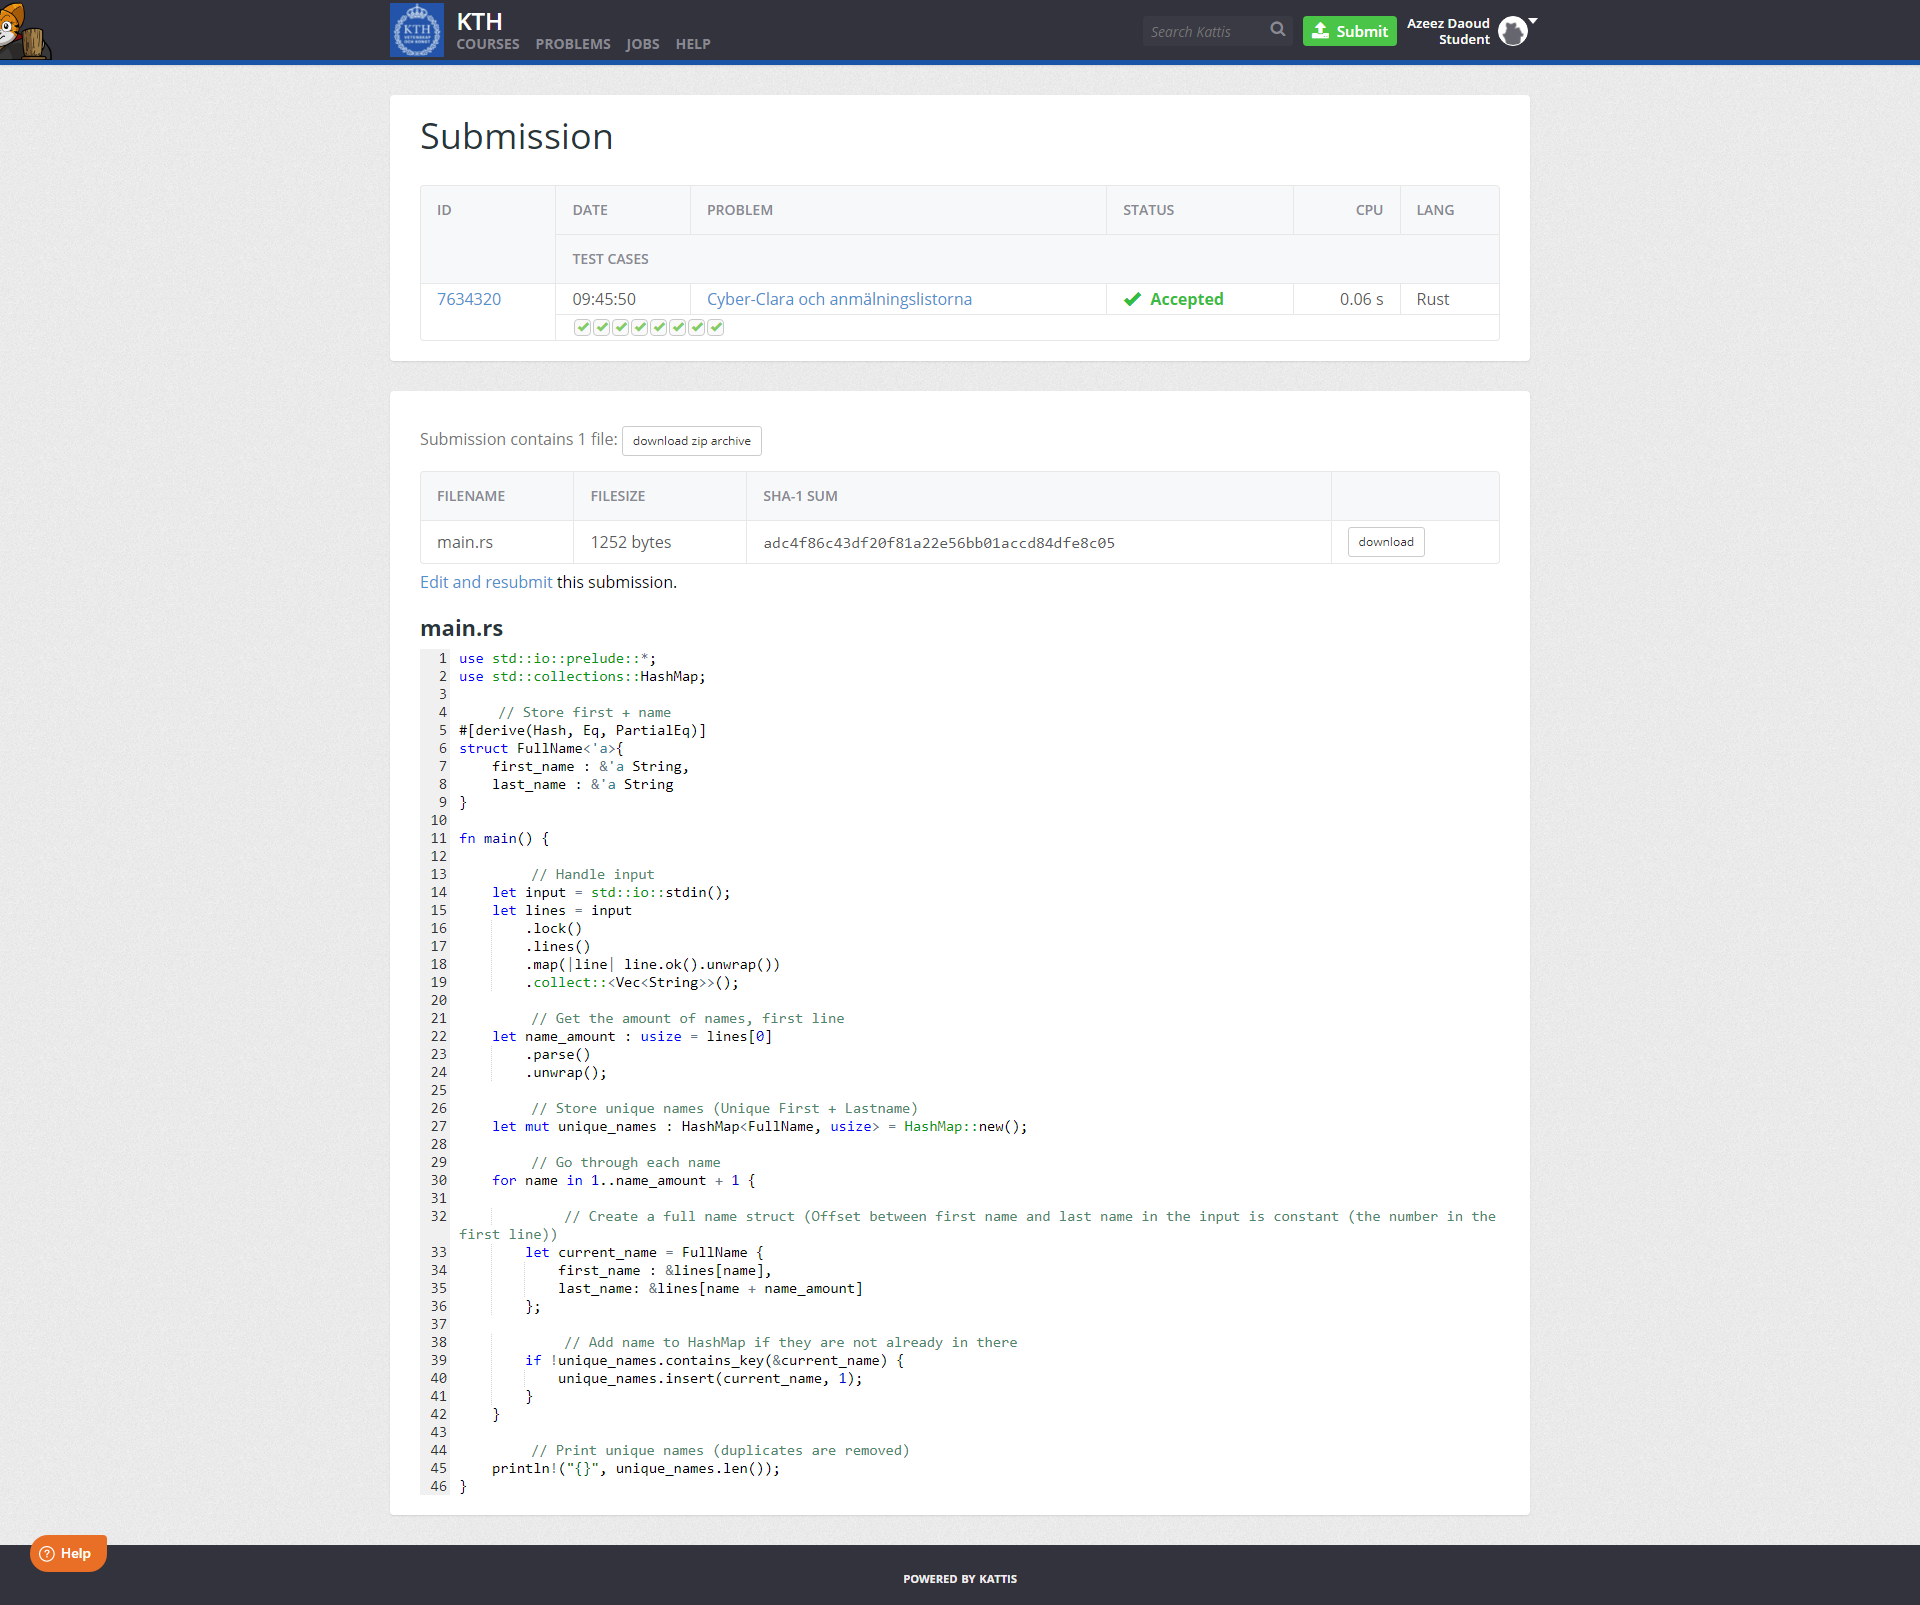
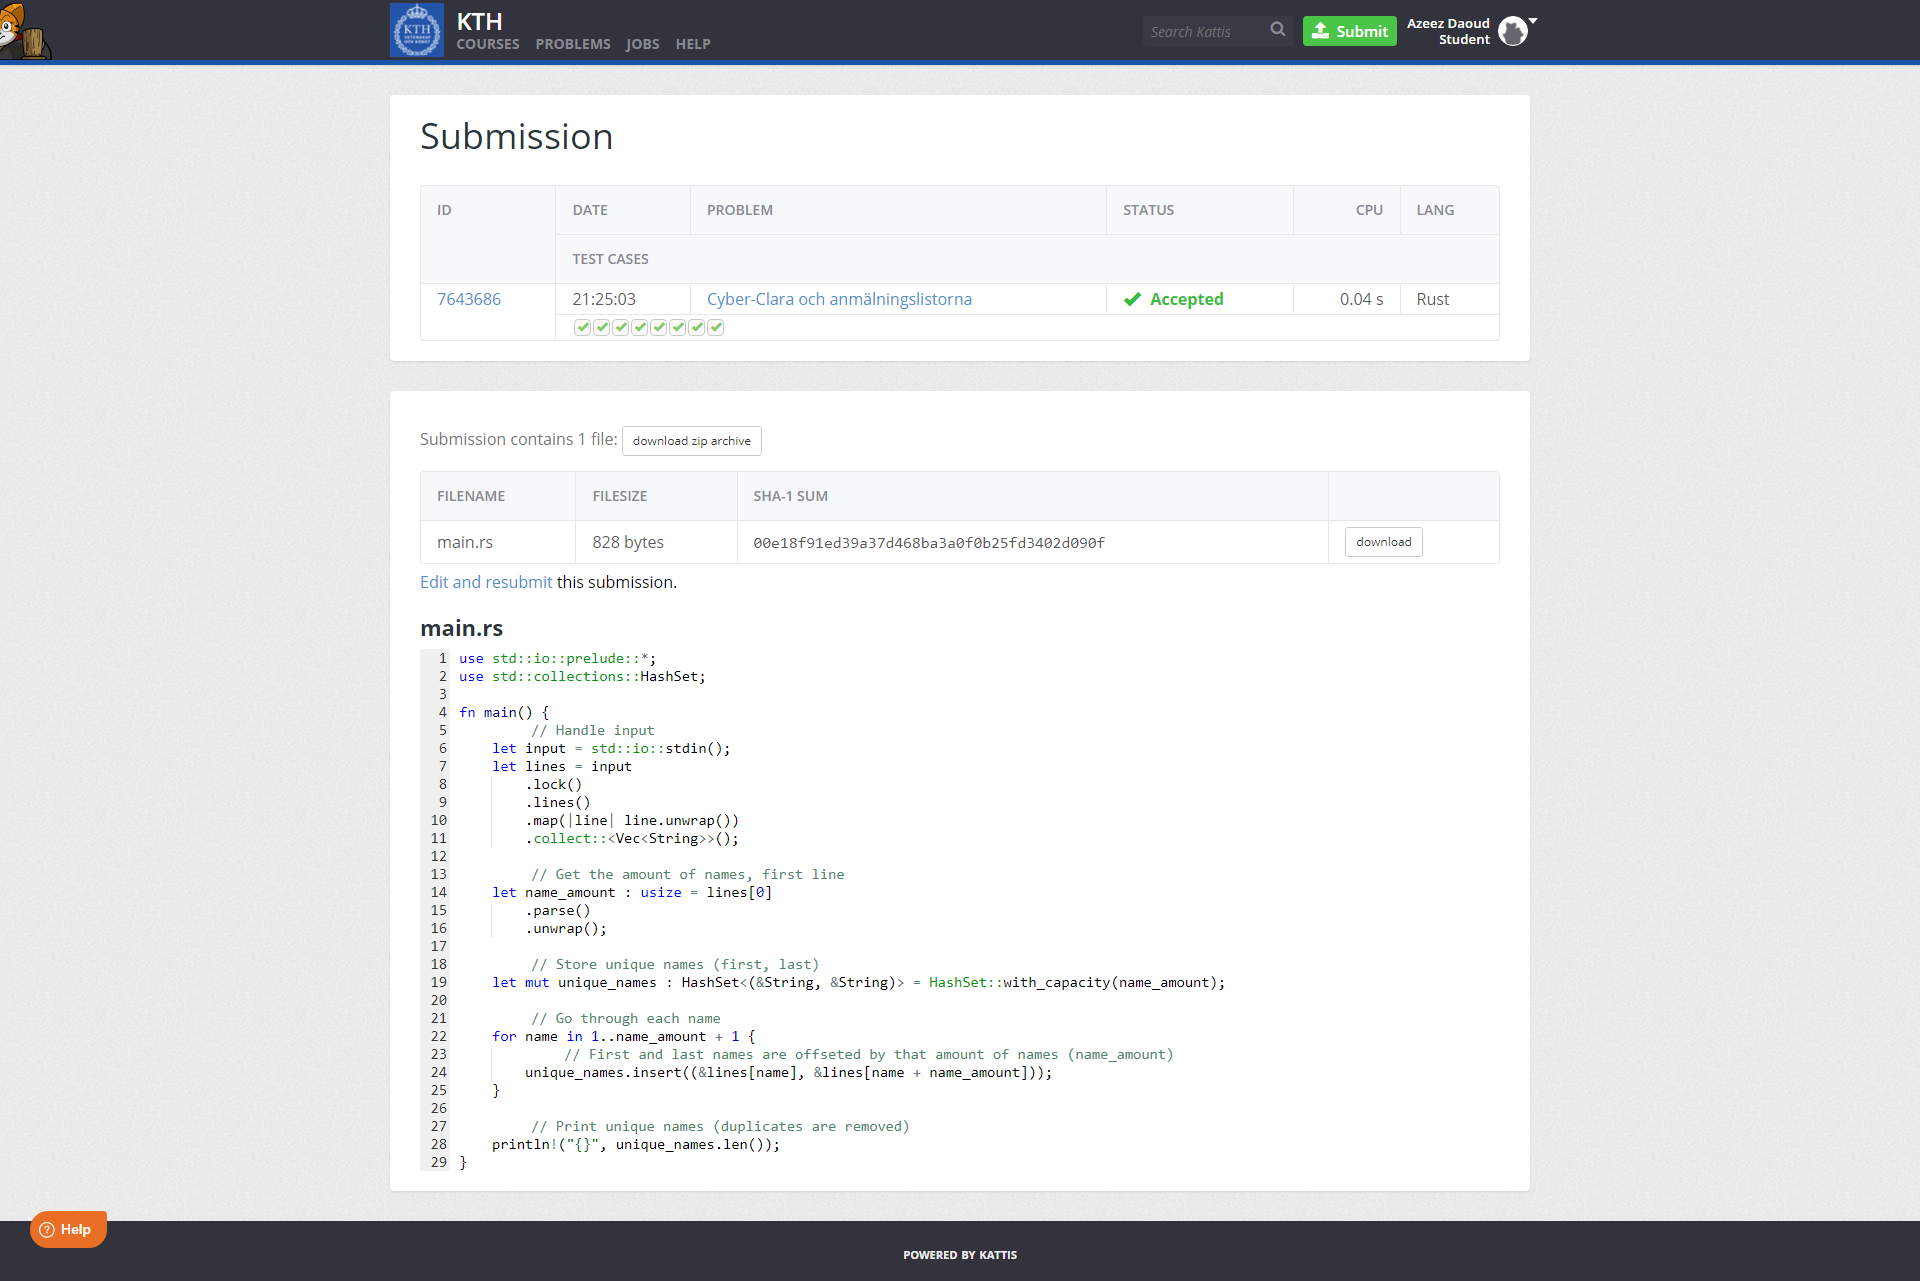
Fix variable naming and optimize cyber_clara

diff --git a/cyber_clara/src/main.rs b/cyber_clara/src/main.rs
@@ -1,15 +1,7 @@
 use std::io::prelude::*;
-use std::collections::HashMap;
-
-// Store first + name
-#[derive(Hash, Eq, PartialEq)]
-struct FullName<'a>{
-    first_name : &'a String,
-    last_name : &'a String
-}
+use std::collections::HashSet;
 
 fn main() {
-
     // Handle input
     let input = std::io::stdin();
     let lines = input
@@ -23,22 +15,13 @@ fn main() {
         .parse()
         .unwrap();
 
-    // Store unique names (Unique First + Lastname)
-    let mut unique_names : HashMap<FullName, usize> = HashMap::new();
+    // Store unique names (first, last)
+    let mut unique_names : HashSet<(&String, &String)> = HashSet::with_capacity(name_amount); 
     
     // Go through each name
     for name in 1..name_amount + 1 {
-
-        // Create a full name struct (Offset between first name and last name in the input is constant (the number in the first line))
-        let current_name = FullName {
-            first_name : &lines[name],
-            last_name: &lines[name + name_amount]
-        };
-
-        // Add name to HashMap if they are not already in there
-        if !unique_names.contains_key(&current_name) {
-            unique_names.insert(current_name, 1);
-        }
+        // First and last names are offseted by that amount of names (name_amount)
+        unique_names.insert((&lines[name], &lines[name + name_amount]));
     }
 
     // Print unique names (duplicates are removed)

diff --git a/a_different_problem/src/main.rs b/a_different_problem/src/main.rs
@@ -20,7 +20,7 @@ fn main() {
             let pairs = line
                 .trim()
                 .split(' ')
-                .map(|a| a.parse().unwrap())
+                .map(|num| num.parse().unwrap())
                 .collect::<Vec<i64>>();
 
             let val = (pairs[0] - pairs[1]).abs();

diff --git a/avstand_till_kant/src/main.rs b/avstand_till_kant/src/main.rs
@@ -15,7 +15,7 @@ fn main() {
         .next()
         .unwrap()
         .split(' ')
-        .map(|a| a.parse::<usize>().unwrap())
+        .map(|value| value.parse::<usize>().unwrap())
         .collect::<Vec<usize>>();
 
     // extract row and dimensions as variables
